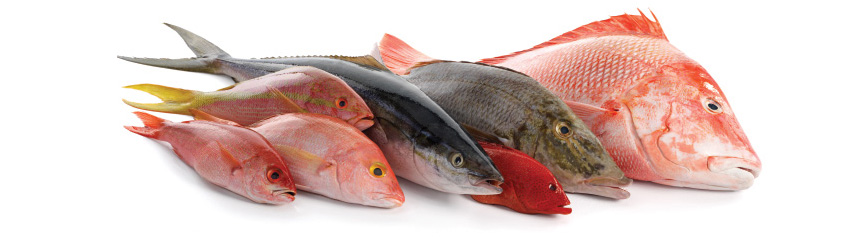
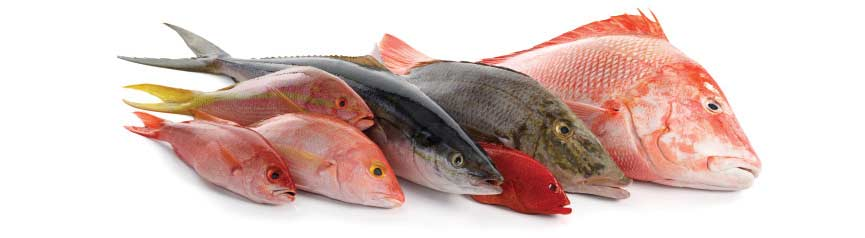
Verion 1.4
Image size reduced

diff --git a/css/style.css b/css/style.css
@@ -9,7 +9,7 @@ body {
 }
 .ic {border:0;float:right;background:#fff;color:#f00;width:50%;line-height:10px;font-size:10px;margin:-220% 0 0 0;overflow:hidden;padding:0}
 .bg-top {background:url(../images/bg-top.jpg) center 0 repeat-x; width:100%;  }
-.bgr {background:url(../images/bg.jpg); center 0 ; width:100%; background-repeat:repeat;}
+.bgr {background:url(../images/bg_small.jpg); center 0 ; width:100%; background-repeat:repeat;}
 
 /***********************************************************************/
 a {text-decoration:none; cursor:pointer;text-decoration:none; }
